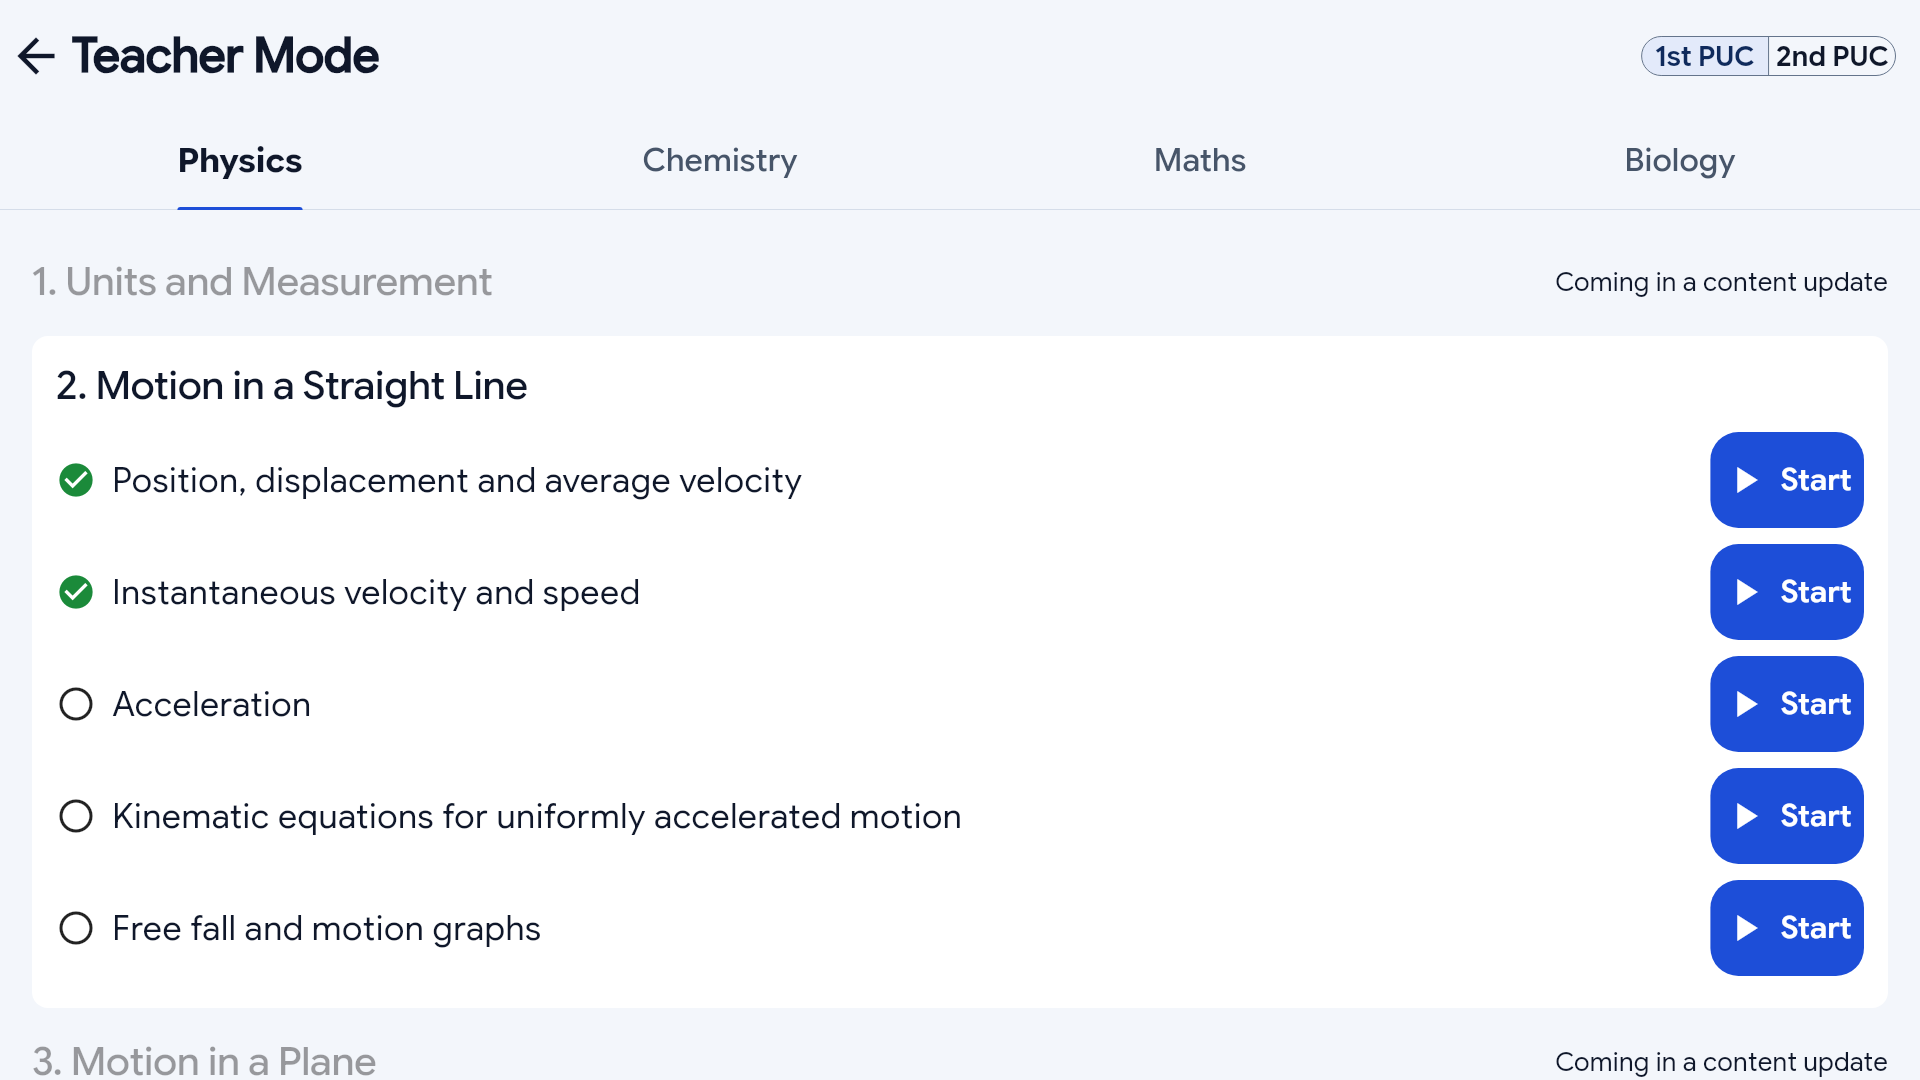
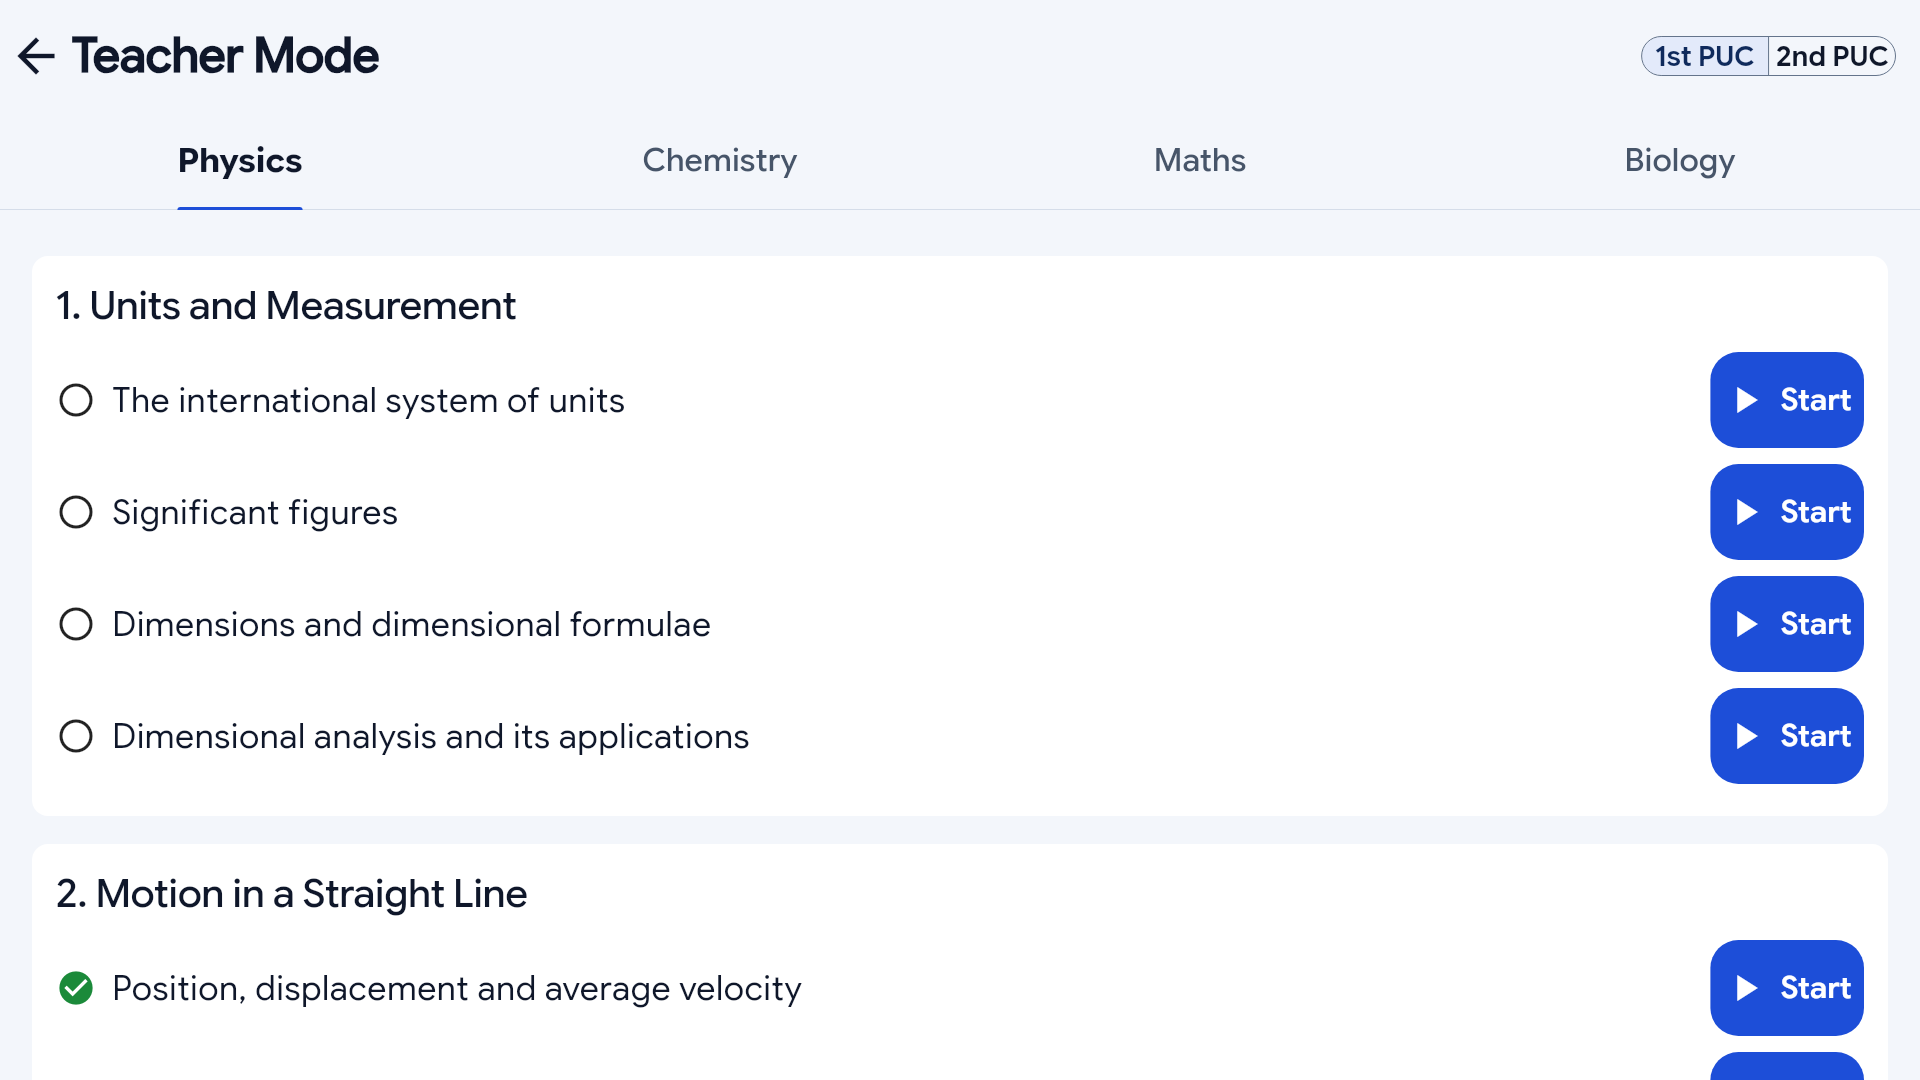
Screenshots of the board, Admin and CMS; README gallery
Claude-Session: https://claude.ai/code/session_01CrEw3mKVcsMSp9VQsb5zxb

diff --git a/README.md b/README.md
@@ -26,6 +26,28 @@ dependencies.
 - At most 3 taps to start a lesson.
 - No student personal data: roll numbers only.
 
+## Screenshots
+
+Board screens are 1920×1080 and rendered with the app's own fonts (`apps/board/screenshots/`). In these renders, 3D models and PhET pages show a labelled card, because they run in a WebView on the board.
+
+| Board | |
+|---|---|
+| ![Home](apps/board/screenshots/png/01-home.png) | ![Home in Kannada](apps/board/screenshots/png/02-home-kannada.png) |
+| ![Teacher Mode](apps/board/screenshots/png/03-teacher-mode.png) | ![Lesson intro](apps/board/screenshots/png/04-player-intro.png) |
+| ![Concept with formula](apps/board/screenshots/png/05-player-concept-formula.png) | ![Kinetix virtual lab](apps/board/screenshots/png/06-player-virtual-lab.png) |
+| ![Worked example](apps/board/screenshots/png/07-player-example.png) | ![Roll-call quiz](apps/board/screenshots/png/08-quiz-roll-call.png) |
+| ![Team challenge](apps/board/screenshots/png/09-quiz-team-challenge.png) | ![Pen over a lesson](apps/board/screenshots/png/10-player-pen.png) |
+| ![Self-Learning period](apps/board/screenshots/png/11-self-learning.png) | ![Teacher PIN](apps/board/screenshots/png/12-teacher-pin.png) |
+
+| College Admin | Content CMS |
+|---|---|
+| ![Usage](docs/screenshots/admin-01-usage.png) | ![Packs](docs/screenshots/cms-01-packs.png) |
+| ![Self-learning scheduler](docs/screenshots/admin-02-self-learning-scheduler.png) | ![Block editor](docs/screenshots/cms-02-block-editor.png) |
+| ![Syllabus heatmap](docs/screenshots/admin-04-syllabus-heatmap.png) | ![Question bank](docs/screenshots/cms-03-question-bank.png) |
+| ![Timetable](docs/screenshots/admin-03-timetable.png) | ![Boards](docs/screenshots/admin-05-boards.png) |
+
+The Admin usage and heatmap screens show demo lesson logs generated for the screenshots.
+
 ## Run it
 
 ```bash
@@ -51,6 +73,6 @@ Tests:
 | pack-builder | 5 (vitest) |
 | api | 9 end-to-end tests against PostgreSQL (jest) |
 | cms | 4 (vitest) |
-| board | 18 (flutter test) |
+| board | 23 (flutter test) |
 
 The Admin and CMS apps were also smoke-tested end to end in Chromium against the seeded API.
